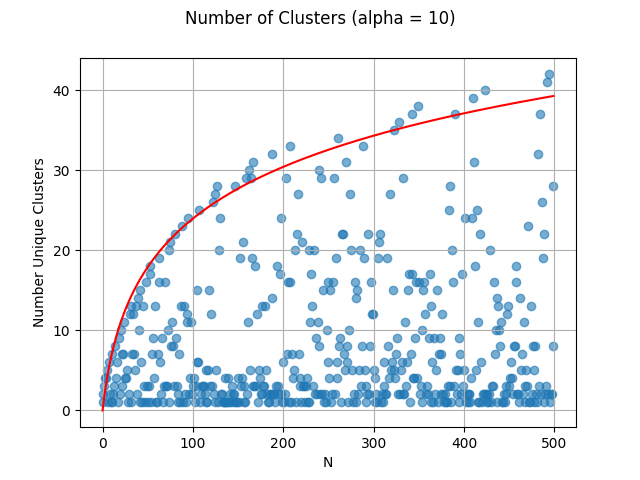
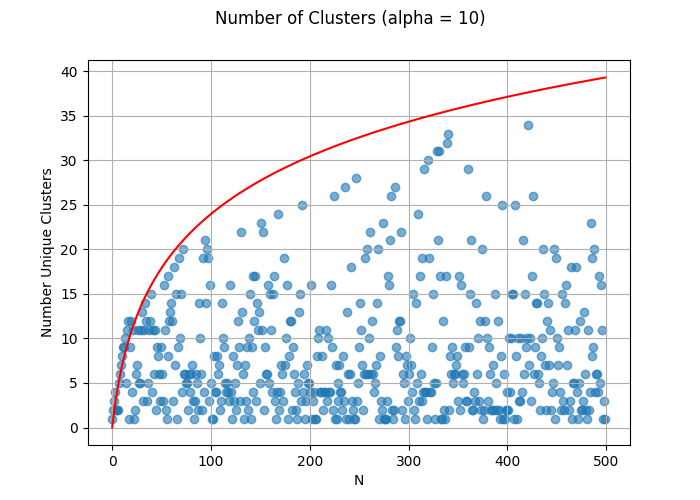
test

Changed region(s): [[0.0312, 0.0938, 0.9062, 0.9375], [0.2812, 0.0, 0.7188, 0.0625], [0.5, 0.9375, 0.5312, 0.9688]]

diff --git a/content/post/2021-04-03-dirichlet-processes/index.en.html b/content/post/2021-04-03-dirichlet-processes/index.en.html
@@ -120,17 +120,17 @@ code span.wa { color: #bf0303; } /* Warning */
 <span id="cb1-30"><a href="#cb1-30" aria-hidden="true" tabindex="-1"></a>ax.grid()</span>
 <span id="cb1-31"><a href="#cb1-31" aria-hidden="true" tabindex="-1"></a>plt.xlabel(<span class="st">&quot;N&quot;</span>)</span>
 <span id="cb1-32"><a href="#cb1-32" aria-hidden="true" tabindex="-1"></a>plt.ylabel(<span class="st">&quot;Number Unique Clusters&quot;</span>)</span>
-<span id="cb1-33"><a href="#cb1-33" aria-hidden="true" tabindex="-1"></a>fig.show()</span></code></pre></div>
+<span id="cb1-33"><a href="#cb1-33" aria-hidden="true" tabindex="-1"></a>fig.savefig(<span class="st">&quot;num_clusters.png&quot;</span>)</span>
+<span id="cb1-34"><a href="#cb1-34" aria-hidden="true" tabindex="-1"></a>plt.close(fig)</span></code></pre></div>
+<p><img src="num_clusters.png" width="350" style="display: block; margin: auto;" /></p>
 <p>It’s rather obvious to see that the number of clusters grows logarithmic in <span class="math inline">\(\alpha\)</span>, and we can actually plot the expected value in red as:</p>
 <p><span class="math display">\[
 \begin{align}
 \mathbb{E}\left[K^*\right|\alpha] &amp; = \alpha \log\left(1 + \frac{n}{\alpha}\right)
 \end{align}
 \]</span></p>
-<p>So this helps us understand how the Dirichlet Distribution could work with large <span class="math inline">\(K\)</span> and givens us confidence that the distribution is well behaved as <span class="math inline">\(K\)</span> gets large, but what about when <span class="math inline">\(K\to\infty\)</span>?
-### Stick Breaking</p>
-<p>One common way to define the Dirichlet Process is by using the popular “stick breaking” construction. Formally, Let <span class="math inline">\((\phi_1,\phi_2, ...)\)</span> be a sequence of independent random variables distributed <span class="math inline">\(Beta(1, \alpha)\)</span>. Independent of this sequence
-let <span class="math inline">\((Z_1, Z_2, ...)\)</span> be a sequence of random variables with base distribution <span class="math inline">\(H\)</span>, where above we used <span class="math inline">\(H \sim cat(\pi)\)</span>. If we define <span class="math inline">\(p_1 = \phi_1\)</span> and <span class="math inline">\(p_i = \phi_i\prod_{j&lt;i}(1-\phi_j)\)</span>, then the random measure <span class="math inline">\(P = \sum_{i\in \mathbb{N}}p_i\delta(Z_i)\)</span> is a Dirichlet Process with concentration parameter <span class="math inline">\(\alpha\)</span> and base measure <span class="math inline">\(H\)</span>. The nice thing about this formulation is that we can take finite samples from an infinite dimensional Dirichlet distribution by following this process.</p>
+<p>So this helps us understand how the Dirichlet Distribution could work with large <span class="math inline">\(K\)</span> and givens us confidence that the distribution is well behaved as <span class="math inline">\(K\)</span> gets large, but what about when <span class="math inline">\(K\to\infty\)</span>? ### Stick Breaking</p>
+<p>One common way to define the Dirichlet Process is by using the popular “stick breaking” construction. Formally, Let <span class="math inline">\((\phi_1,\phi_2, ...)\)</span> be a sequence of independent random variables distributed <span class="math inline">\(Beta(1, \alpha)\)</span>. Independent of this sequence let <span class="math inline">\((Z_1, Z_2, ...)\)</span> be a sequence of random variables with base distribution <span class="math inline">\(H\)</span>, where above we used <span class="math inline">\(H \sim cat(\pi)\)</span>. If we define <span class="math inline">\(p_1 = \phi_1\)</span> and <span class="math inline">\(p_i = \phi_i\prod_{j&lt;i}(1-\phi_j)\)</span>, then the random measure <span class="math inline">\(P = \sum_{i\in \mathbb{N}}p_i\delta(Z_i)\)</span> is a Dirichlet Process with concentration parameter <span class="math inline">\(\alpha\)</span> and base measure <span class="math inline">\(H\)</span>. The nice thing about this formulation is that we can take finite samples from an infinite dimensional Dirichlet distribution by following this process.</p>
 <p>To see this, we can generate samples using the stick-breaking method and verify that they are visually similar to those we generated using the Dirichlet Distribution for large values of <span class="math inline">\(K\)</span>.</p>
 <div class="sourceCode" id="cb2"><pre class="sourceCode python"><code class="sourceCode python"><span id="cb2-1"><a href="#cb2-1" aria-hidden="true" tabindex="-1"></a><span class="kw">def</span> stick_breaking(N, alpha):</span>
 <span id="cb2-2"><a href="#cb2-2" aria-hidden="true" tabindex="-1"></a>    table <span class="op">=</span> [<span class="dv">1</span>]</span>
@@ -159,7 +159,9 @@ let <span class="math inline">\((Z_1, Z_2, ...)\)</span> be a sequence of random
 <span id="cb2-25"><a href="#cb2-25" aria-hidden="true" tabindex="-1"></a>ax.grid()</span>
 <span id="cb2-26"><a href="#cb2-26" aria-hidden="true" tabindex="-1"></a>plt.xlabel(<span class="st">&quot;Iteration&quot;</span>)</span>
 <span id="cb2-27"><a href="#cb2-27" aria-hidden="true" tabindex="-1"></a>plt.ylabel(<span class="st">&quot;Class Assignment&quot;</span>)</span>
-<span id="cb2-28"><a href="#cb2-28" aria-hidden="true" tabindex="-1"></a>fig.show()</span></code></pre></div>
+<span id="cb2-28"><a href="#cb2-28" aria-hidden="true" tabindex="-1"></a>fig.savefig(<span class="st">&quot;stick_breaking.png&quot;</span>)</span>
+<span id="cb2-29"><a href="#cb2-29" aria-hidden="true" tabindex="-1"></a>plt.close(fig)</span></code></pre></div>
+<p><img src="stick_breaking.png" width="350" style="display: block; margin: auto;" /></p>
 <div id="dirichlet-processes" class="section level3">
 <h3>Dirichlet Processes</h3>
 <p>A Dirichlet Process is best described as a stochastic process used in bayesian non-parametric modeling, and more specifically in Dirichlet Process Mixture Models (Infinite Mixture Models). Each draw from a DP is itself a distribution, making it a distribution over distributions. The DP derives it’s name from the fact that the marginal distributions of a DP is a finite dimensional Dirichlet Distribution just as a Gaussian Process has a finite dimensional Gaussian distributed marginal distribution. The DP has an infinite number of parameters which places it in the family of non-parametrics.</p>

diff --git a/docs/post/2021-04-03-dirichlet-processes/index.en.html b/docs/post/2021-04-03-dirichlet-processes/index.en.html
@@ -104,17 +104,17 @@ code span.wa { color: #bf0303; } /* Warning */
 <span id="cb1-30"><a href="#cb1-30" aria-hidden="true" tabindex="-1"></a>ax.grid()</span>
 <span id="cb1-31"><a href="#cb1-31" aria-hidden="true" tabindex="-1"></a>plt.xlabel(<span class="st">&quot;N&quot;</span>)</span>
 <span id="cb1-32"><a href="#cb1-32" aria-hidden="true" tabindex="-1"></a>plt.ylabel(<span class="st">&quot;Number Unique Clusters&quot;</span>)</span>
-<span id="cb1-33"><a href="#cb1-33" aria-hidden="true" tabindex="-1"></a>fig.show()</span></code></pre></div>
+<span id="cb1-33"><a href="#cb1-33" aria-hidden="true" tabindex="-1"></a>fig.savefig(<span class="st">&quot;num_clusters.png&quot;</span>)</span>
+<span id="cb1-34"><a href="#cb1-34" aria-hidden="true" tabindex="-1"></a>plt.close(fig)</span></code></pre></div>
+<p><img src="num_clusters.png" width="350" style="display: block; margin: auto;" /></p>
 <p>It’s rather obvious to see that the number of clusters grows logarithmic in <span class="math inline">\(\alpha\)</span>, and we can actually plot the expected value in red as:</p>
 <p><span class="math display">\[
 \begin{align}
 \mathbb{E}\left[K^*\right|\alpha] &amp; = \alpha \log\left(1 + \frac{n}{\alpha}\right)
 \end{align}
 \]</span></p>
-<p>So this helps us understand how the Dirichlet Distribution could work with large <span class="math inline">\(K\)</span> and givens us confidence that the distribution is well behaved as <span class="math inline">\(K\)</span> gets large, but what about when <span class="math inline">\(K\to\infty\)</span>?
-### Stick Breaking</p>
-<p>One common way to define the Dirichlet Process is by using the popular “stick breaking” construction. Formally, Let <span class="math inline">\((\phi_1,\phi_2, ...)\)</span> be a sequence of independent random variables distributed <span class="math inline">\(Beta(1, \alpha)\)</span>. Independent of this sequence
-let <span class="math inline">\((Z_1, Z_2, ...)\)</span> be a sequence of random variables with base distribution <span class="math inline">\(H\)</span>, where above we used <span class="math inline">\(H \sim cat(\pi)\)</span>. If we define <span class="math inline">\(p_1 = \phi_1\)</span> and <span class="math inline">\(p_i = \phi_i\prod_{j&lt;i}(1-\phi_j)\)</span>, then the random measure <span class="math inline">\(P = \sum_{i\in \mathbb{N}}p_i\delta(Z_i)\)</span> is a Dirichlet Process with concentration parameter <span class="math inline">\(\alpha\)</span> and base measure <span class="math inline">\(H\)</span>. The nice thing about this formulation is that we can take finite samples from an infinite dimensional Dirichlet distribution by following this process.</p>
+<p>So this helps us understand how the Dirichlet Distribution could work with large <span class="math inline">\(K\)</span> and givens us confidence that the distribution is well behaved as <span class="math inline">\(K\)</span> gets large, but what about when <span class="math inline">\(K\to\infty\)</span>? ### Stick Breaking</p>
+<p>One common way to define the Dirichlet Process is by using the popular “stick breaking” construction. Formally, Let <span class="math inline">\((\phi_1,\phi_2, ...)\)</span> be a sequence of independent random variables distributed <span class="math inline">\(Beta(1, \alpha)\)</span>. Independent of this sequence let <span class="math inline">\((Z_1, Z_2, ...)\)</span> be a sequence of random variables with base distribution <span class="math inline">\(H\)</span>, where above we used <span class="math inline">\(H \sim cat(\pi)\)</span>. If we define <span class="math inline">\(p_1 = \phi_1\)</span> and <span class="math inline">\(p_i = \phi_i\prod_{j&lt;i}(1-\phi_j)\)</span>, then the random measure <span class="math inline">\(P = \sum_{i\in \mathbb{N}}p_i\delta(Z_i)\)</span> is a Dirichlet Process with concentration parameter <span class="math inline">\(\alpha\)</span> and base measure <span class="math inline">\(H\)</span>. The nice thing about this formulation is that we can take finite samples from an infinite dimensional Dirichlet distribution by following this process.</p>
 <p>To see this, we can generate samples using the stick-breaking method and verify that they are visually similar to those we generated using the Dirichlet Distribution for large values of <span class="math inline">\(K\)</span>.</p>
 <div class="sourceCode" id="cb2"><pre class="sourceCode python"><code class="sourceCode python"><span id="cb2-1"><a href="#cb2-1" aria-hidden="true" tabindex="-1"></a><span class="kw">def</span> stick_breaking(N, alpha):</span>
 <span id="cb2-2"><a href="#cb2-2" aria-hidden="true" tabindex="-1"></a>    table <span class="op">=</span> [<span class="dv">1</span>]</span>
@@ -143,7 +143,9 @@ let <span class="math inline">\((Z_1, Z_2, ...)\)</span> be a sequence of random
 <span id="cb2-25"><a href="#cb2-25" aria-hidden="true" tabindex="-1"></a>ax.grid()</span>
 <span id="cb2-26"><a href="#cb2-26" aria-hidden="true" tabindex="-1"></a>plt.xlabel(<span class="st">&quot;Iteration&quot;</span>)</span>
 <span id="cb2-27"><a href="#cb2-27" aria-hidden="true" tabindex="-1"></a>plt.ylabel(<span class="st">&quot;Class Assignment&quot;</span>)</span>
-<span id="cb2-28"><a href="#cb2-28" aria-hidden="true" tabindex="-1"></a>fig.show()</span></code></pre></div>
+<span id="cb2-28"><a href="#cb2-28" aria-hidden="true" tabindex="-1"></a>fig.savefig(<span class="st">&quot;stick_breaking.png&quot;</span>)</span>
+<span id="cb2-29"><a href="#cb2-29" aria-hidden="true" tabindex="-1"></a>plt.close(fig)</span></code></pre></div>
+<p><img src="stick_breaking.png" width="350" style="display: block; margin: auto;" /></p>
 <div id="dirichlet-processes" class="section level3">
 <h3>Dirichlet Processes</h3>
 <p>A Dirichlet Process is best described as a stochastic process used in bayesian non-parametric modeling, and more specifically in Dirichlet Process Mixture Models (Infinite Mixture Models). Each draw from a DP is itself a distribution, making it a distribution over distributions. The DP derives it’s name from the fact that the marginal distributions of a DP is a finite dimensional Dirichlet Distribution just as a Gaussian Process has a finite dimensional Gaussian distributed marginal distribution. The DP has an infinite number of parameters which places it in the family of non-parametrics.</p>

diff --git a/docs/post/2021-04-03-dirichlet-processes/index.html b/docs/post/2021-04-03-dirichlet-processes/index.html
@@ -263,17 +263,17 @@ code span.wa { color: #bf0303; } /* Warning */
 <span id="cb1-30"><a href="#cb1-30" aria-hidden="true" tabindex="-1"></a>ax.grid()</span>
 <span id="cb1-31"><a href="#cb1-31" aria-hidden="true" tabindex="-1"></a>plt.xlabel(<span class="st">&quot;N&quot;</span>)</span>
 <span id="cb1-32"><a href="#cb1-32" aria-hidden="true" tabindex="-1"></a>plt.ylabel(<span class="st">&quot;Number Unique Clusters&quot;</span>)</span>
-<span id="cb1-33"><a href="#cb1-33" aria-hidden="true" tabindex="-1"></a>fig.show()</span></code></pre></div>
+<span id="cb1-33"><a href="#cb1-33" aria-hidden="true" tabindex="-1"></a>fig.savefig(<span class="st">&quot;num_clusters.png&quot;</span>)</span>
+<span id="cb1-34"><a href="#cb1-34" aria-hidden="true" tabindex="-1"></a>plt.close(fig)</span></code></pre></div>
+<p><img src="num_clusters.png" width="350" style="display: block; margin: auto;" /></p>
 <p>It’s rather obvious to see that the number of clusters grows logarithmic in <span class="math inline">\(\alpha\)</span>, and we can actually plot the expected value in red as:</p>
 <p><span class="math display">\[
 \begin{align}
 \mathbb{E}\left[K^*\right|\alpha] &amp; = \alpha \log\left(1 + \frac{n}{\alpha}\right)
 \end{align}
 \]</span></p>
-<p>So this helps us understand how the Dirichlet Distribution could work with large <span class="math inline">\(K\)</span> and givens us confidence that the distribution is well behaved as <span class="math inline">\(K\)</span> gets large, but what about when <span class="math inline">\(K\to\infty\)</span>?
-### Stick Breaking</p>
-<p>One common way to define the Dirichlet Process is by using the popular “stick breaking” construction. Formally, Let <span class="math inline">\((\phi_1,\phi_2, ...)\)</span> be a sequence of independent random variables distributed <span class="math inline">\(Beta(1, \alpha)\)</span>. Independent of this sequence
-let <span class="math inline">\((Z_1, Z_2, ...)\)</span> be a sequence of random variables with base distribution <span class="math inline">\(H\)</span>, where above we used <span class="math inline">\(H \sim cat(\pi)\)</span>. If we define <span class="math inline">\(p_1 = \phi_1\)</span> and <span class="math inline">\(p_i = \phi_i\prod_{j&lt;i}(1-\phi_j)\)</span>, then the random measure <span class="math inline">\(P = \sum_{i\in \mathbb{N}}p_i\delta(Z_i)\)</span> is a Dirichlet Process with concentration parameter <span class="math inline">\(\alpha\)</span> and base measure <span class="math inline">\(H\)</span>. The nice thing about this formulation is that we can take finite samples from an infinite dimensional Dirichlet distribution by following this process.</p>
+<p>So this helps us understand how the Dirichlet Distribution could work with large <span class="math inline">\(K\)</span> and givens us confidence that the distribution is well behaved as <span class="math inline">\(K\)</span> gets large, but what about when <span class="math inline">\(K\to\infty\)</span>? ### Stick Breaking</p>
+<p>One common way to define the Dirichlet Process is by using the popular “stick breaking” construction. Formally, Let <span class="math inline">\((\phi_1,\phi_2, ...)\)</span> be a sequence of independent random variables distributed <span class="math inline">\(Beta(1, \alpha)\)</span>. Independent of this sequence let <span class="math inline">\((Z_1, Z_2, ...)\)</span> be a sequence of random variables with base distribution <span class="math inline">\(H\)</span>, where above we used <span class="math inline">\(H \sim cat(\pi)\)</span>. If we define <span class="math inline">\(p_1 = \phi_1\)</span> and <span class="math inline">\(p_i = \phi_i\prod_{j&lt;i}(1-\phi_j)\)</span>, then the random measure <span class="math inline">\(P = \sum_{i\in \mathbb{N}}p_i\delta(Z_i)\)</span> is a Dirichlet Process with concentration parameter <span class="math inline">\(\alpha\)</span> and base measure <span class="math inline">\(H\)</span>. The nice thing about this formulation is that we can take finite samples from an infinite dimensional Dirichlet distribution by following this process.</p>
 <p>To see this, we can generate samples using the stick-breaking method and verify that they are visually similar to those we generated using the Dirichlet Distribution for large values of <span class="math inline">\(K\)</span>.</p>
 <div class="sourceCode" id="cb2"><pre class="sourceCode python"><code class="sourceCode python"><span id="cb2-1"><a href="#cb2-1" aria-hidden="true" tabindex="-1"></a><span class="kw">def</span> stick_breaking(N, alpha):</span>
 <span id="cb2-2"><a href="#cb2-2" aria-hidden="true" tabindex="-1"></a>    table <span class="op">=</span> [<span class="dv">1</span>]</span>
@@ -302,7 +302,9 @@ let <span class="math inline">\((Z_1, Z_2, ...)\)</span> be a sequence of random
 <span id="cb2-25"><a href="#cb2-25" aria-hidden="true" tabindex="-1"></a>ax.grid()</span>
 <span id="cb2-26"><a href="#cb2-26" aria-hidden="true" tabindex="-1"></a>plt.xlabel(<span class="st">&quot;Iteration&quot;</span>)</span>
 <span id="cb2-27"><a href="#cb2-27" aria-hidden="true" tabindex="-1"></a>plt.ylabel(<span class="st">&quot;Class Assignment&quot;</span>)</span>
-<span id="cb2-28"><a href="#cb2-28" aria-hidden="true" tabindex="-1"></a>fig.show()</span></code></pre></div>
+<span id="cb2-28"><a href="#cb2-28" aria-hidden="true" tabindex="-1"></a>fig.savefig(<span class="st">&quot;stick_breaking.png&quot;</span>)</span>
+<span id="cb2-29"><a href="#cb2-29" aria-hidden="true" tabindex="-1"></a>plt.close(fig)</span></code></pre></div>
+<p><img src="stick_breaking.png" width="350" style="display: block; margin: auto;" /></p>
 <div id="dirichlet-processes" class="section level3">
 <h3>Dirichlet Processes</h3>
 <p>A Dirichlet Process is best described as a stochastic process used in bayesian non-parametric modeling, and more specifically in Dirichlet Process Mixture Models (Infinite Mixture Models). Each draw from a DP is itself a distribution, making it a distribution over distributions. The DP derives it’s name from the fact that the marginal distributions of a DP is a finite dimensional Dirichlet Distribution just as a Gaussian Process has a finite dimensional Gaussian distributed marginal distribution. The DP has an infinite number of parameters which places it in the family of non-parametrics.</p>
